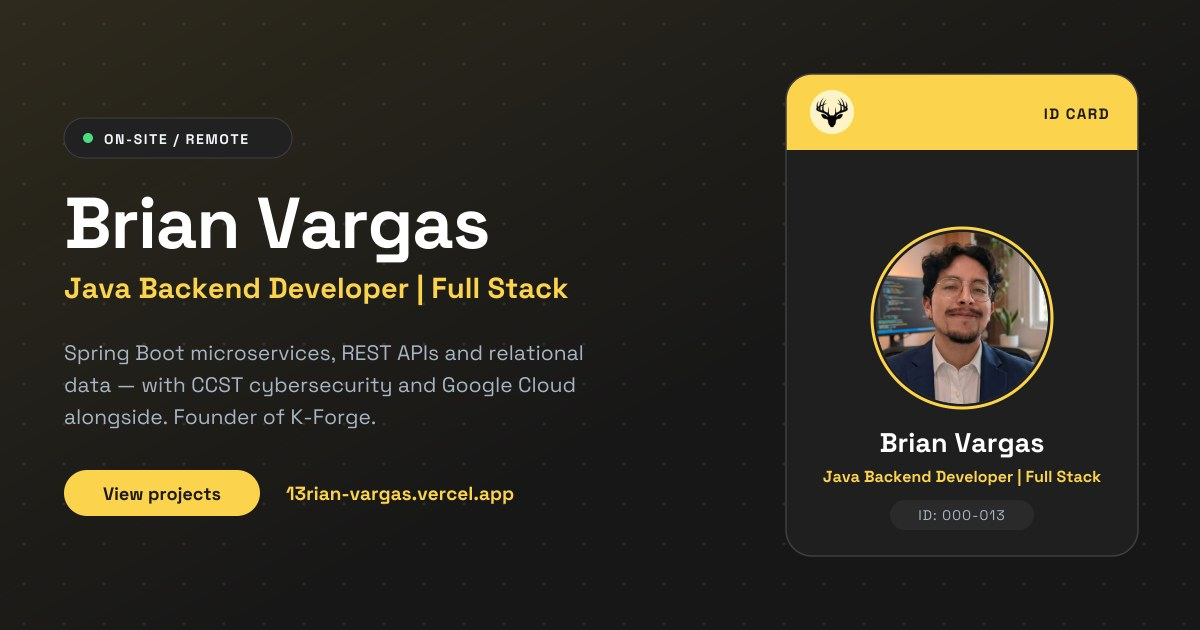
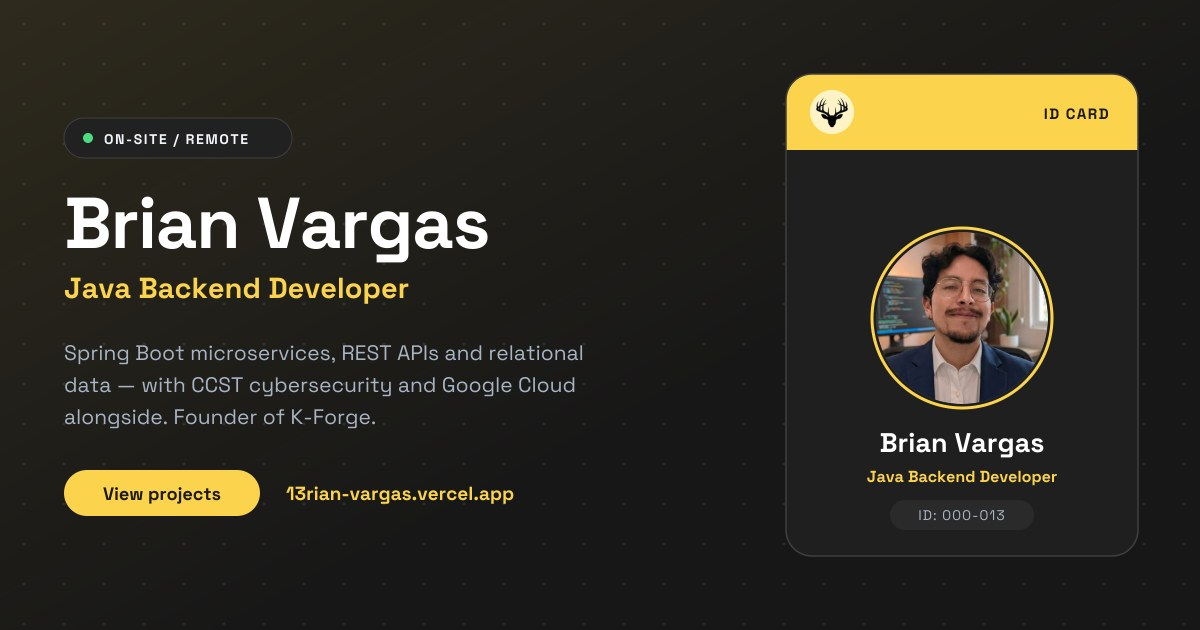
refactor: drop "Full Stack" from the role title
The title is Java Backend Developer everywhere it is stated as a title:
head.title, home.role and the meta description in all four languages,
the JSON-LD jobTitle, the og:image alt, and both lines of the OG cover,
which is regenerated.

Prose that describes the capability is left alone — "full stack capable
with Angular and TypeScript" in the bio and "open to backend, full
stack, DevOps and cybersecurity roles" in the contact copy are claims
about range, not the label he goes by.

Changed region(s): [[0.6783, 0.7238, 0.925, 0.7841], [0.3392, 0.4222, 0.4933, 0.4825]]

diff --git a/src/i18n/ui.ts b/src/i18n/ui.ts
@@ -10,9 +10,9 @@ export const showDefaultLang = false;
 
 export const ui = {
     en: {
-        "head.title": "Brian Vargas — Java Backend Developer | Full Stack",
+        "head.title": "Brian Vargas — Java Backend Developer",
         "head.description":
-            "Java Backend Developer and Full Stack, Systems Engineering undergraduate in Bogotá. Spring Boot microservices, Angular, PostgreSQL and Docker, with CCST Cybersecurity and CCNA foundations.",
+            "Java Backend Developer, Systems Engineering undergraduate in Bogotá. Spring Boot microservices, Angular, PostgreSQL and Docker, with CCST Cybersecurity and CCNA foundations.",
 
         "layout.home": "Home",
         "layout.about": "About Me",
@@ -26,7 +26,7 @@ export const ui = {
         "layout.scrollTop": "Back to top",
 
         "home.name": "Brian Vargas",
-        "home.role": "Java Backend Developer | Full Stack",
+        "home.role": "Java Backend Developer",
         "home.tagline":
             "Hi, I'm Brian. I got hooked on figuring out how things work underneath, which is how I ended up in backend — building systems that still stand up when real people use them. Lately I've been going deep on cybersecurity and cloud. I'm looking for a team where there's always something left to learn.",
         "home.ctaProjects": "View projects",
@@ -206,9 +206,9 @@ export const ui = {
     },
 
     es: {
-        "head.title": "Brian Vargas — Desarrollador Java Backend | Full Stack",
+        "head.title": "Brian Vargas — Desarrollador Java Backend",
         "head.description":
-            "Desarrollador Java Backend y Full Stack, Ingeniería de Sistemas en formación en Bogotá. Microservicios con Spring Boot, Angular, PostgreSQL y Docker, con bases en CCST Cybersecurity y CCNA.",
+            "Desarrollador Java Backend, Ingeniería de Sistemas en formación en Bogotá. Microservicios con Spring Boot, Angular, PostgreSQL y Docker, con bases en CCST Cybersecurity y CCNA.",
 
         "layout.home": "Inicio",
         "layout.about": "Sobre mí",
@@ -222,7 +222,7 @@ export const ui = {
         "layout.scrollTop": "Volver arriba",
 
         "home.name": "Brian Vargas",
-        "home.role": "Desarrollador Java Backend | Full Stack",
+        "home.role": "Desarrollador Java Backend",
         "home.tagline":
             "Hola, soy Brian. Me picó la curiosidad de entender cómo funcionan las cosas por dentro y terminé en el backend — armando sistemas que siguen en pie cuando la gente de verdad los usa. Últimamente me metí de lleno en ciberseguridad y cloud. Busco un equipo donde siempre quede algo por aprender.",
         "home.ctaProjects": "Ver proyectos",
@@ -402,9 +402,9 @@ export const ui = {
     },
 
     fr: {
-        "head.title": "Brian Vargas — Développeur Java Backend | Full Stack",
+        "head.title": "Brian Vargas — Développeur Java Backend",
         "head.description":
-            "Développeur Java Backend et Full Stack, étudiant en Ingénierie des Systèmes à Bogotá. Microservices Spring Boot, Angular, PostgreSQL et Docker, avec des bases en CCST Cybersecurity et CCNA.",
+            "Développeur Java Backend, étudiant en Ingénierie des Systèmes à Bogotá. Microservices Spring Boot, Angular, PostgreSQL et Docker, avec des bases en CCST Cybersecurity et CCNA.",
 
         "layout.home": "Accueil",
         "layout.about": "À propos de moi",
@@ -418,7 +418,7 @@ export const ui = {
         "layout.scrollTop": "Haut de page",
 
         "home.name": "Brian Vargas",
-        "home.role": "Développeur Java Backend | Full Stack",
+        "home.role": "Développeur Java Backend",
         "home.tagline":
             "Bonjour, je suis Brian. J'ai attrapé le virus de comprendre comment les choses fonctionnent en dessous, et j'ai fini dans le backend — à construire des systèmes qui tiennent quand de vraies personnes s'en servent. Depuis peu je creuse la cybersécurité et le cloud. Je cherche une équipe où il reste toujours quelque chose à apprendre.",
         "home.ctaProjects": "Voir les projets",
@@ -598,9 +598,9 @@ export const ui = {
     },
 
     pt: {
-        "head.title": "Brian Vargas — Desenvolvedor Java Backend | Full Stack",
+        "head.title": "Brian Vargas — Desenvolvedor Java Backend",
         "head.description":
-            "Desenvolvedor Java Backend e Full Stack, estudante de Engenharia de Sistemas em Bogotá. Microsserviços com Spring Boot, Angular, PostgreSQL e Docker, com base em CCST Cybersecurity e CCNA.",
+            "Desenvolvedor Java Backend, estudante de Engenharia de Sistemas em Bogotá. Microsserviços com Spring Boot, Angular, PostgreSQL e Docker, com base em CCST Cybersecurity e CCNA.",
 
         "layout.home": "Início",
         "layout.about": "Sobre mim",
@@ -614,7 +614,7 @@ export const ui = {
         "layout.scrollTop": "Voltar ao topo",
 
         "home.name": "Brian Vargas",
-        "home.role": "Desenvolvedor Java Backend | Full Stack",
+        "home.role": "Desenvolvedor Java Backend",
         "home.tagline":
             "Oi, sou o Brian. Peguei o vício de entender como as coisas funcionam por dentro e acabei no backend — construindo sistemas que continuam de pé quando as pessoas de verdade usam. Ultimamente mergulhei em cibersegurança e cloud. Procuro um time onde sempre sobre algo para aprender.",
         "home.ctaProjects": "Ver projetos",

diff --git a/tools/gen_og.py b/tools/gen_og.py
@@ -109,7 +109,7 @@ CARD_X, CARD_W, CARD_Y, CARD_H = 786, 352, 74, 482
 body = [
     text_path("ON-SITE / REMOTE", 104, 144, 14, 700, INK, tracking=1.6),
     text_path("Brian Vargas", 64, 248, 72, 700, "#ffffff", tracking=-1.2),
-    text_path("Java Backend Developer | Full Stack", 64, 298, 29, 700, AMBER),
+    text_path("Java Backend Developer", 64, 298, 29, 700, AMBER),
     text_path("Spring Boot microservices, REST APIs and relational", 64, 360, 21, 400, MUTED),
     text_path("data — with CCST cybersecurity and Google Cloud", 64, 392, 21, 400, MUTED),
     text_path("alongside. Founder of K-Forge.", 64, 424, 21, 400, MUTED),
@@ -118,7 +118,7 @@ body = [
     text_path("ID CARD", CARD_X + CARD_W - 28, CARD_Y + 45, 15, 700, "#1c1917",
               anchor="end", tracking=1.4),
     text_path("Brian Vargas", CX, 452, 27, 700, "#ffffff", anchor="middle"),
-    text_path("Java Backend Developer | Full Stack", CX, 482, 16, 700, AMBER, anchor="middle"),
+    text_path("Java Backend Developer", CX, 482, 16, 700, AMBER, anchor="middle"),
     text_path("ID: 000-013", CX, 520, 14, 400, MUTED, anchor="middle", tracking=1.0),
 ]
 
